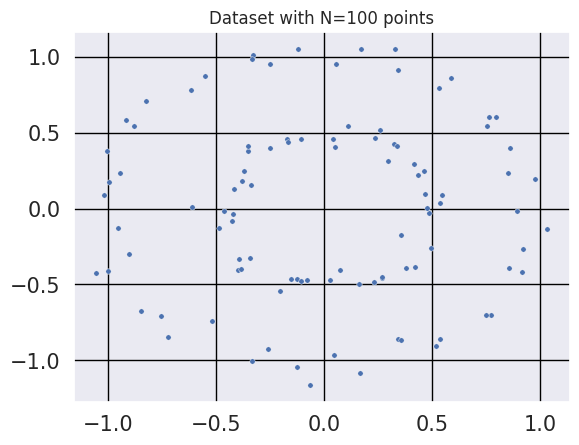
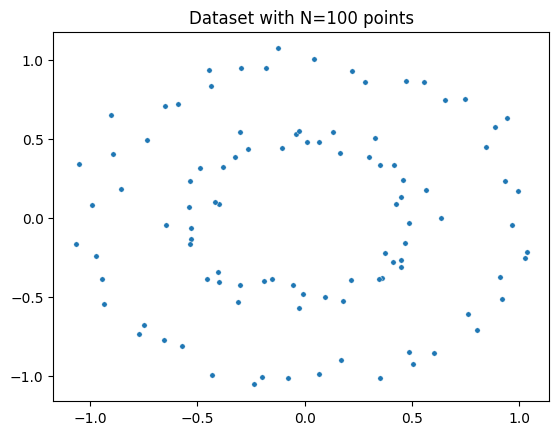
update tda9

diff --git a/_episodes/09-tda-handson.md b/_episodes/09-tda-handson.md
@@ -231,15 +231,27 @@ gd.plot_persistence_barcode(persistence_diagram,legend=True)
 
 
 ### **Example 2:** Rips complex from datasets 
-Import a new package and make two circles 
+In this example, we will demonstrate an application of persistent homology using a dataset generated by us. Persistent homology is a technique used in topological data analysis to study the shape and structure of datasets.
+
+The `make_circles()` function from scikit-learn's datasets module is used to generate synthetic circular data. We specify the number of points to generate (n_samples), the amount of noise to add to the data points (noise), and the scale factor between the inner and outer circle (factor).
+
+The generated dataset consists of two arrays: circles and labels. The circles array contains the coordinates of the generated data points, while the labels array assigns a label to each data point (in this case, it will be 0 or 1 representing the two circles).
+
 > ## FIXME
 > Aquí falta más texto para decir que vas a generar una nube de puntos y qué es make_circles n_samples, noise y factor. Y en general en los siguientes pasos falta un poco de texto y decir qué hacen las funciones nuevas.
 {: .caution}
 
 ~~~
-from sklearn import datasets
+from sklearn import datasets  # Import the datasets module from scikit-learn
+
+# Generate synthetic data using the make_circles function
+# n_samples: Number of points to generate
+# noise: Standard deviation of Gaussian noise added to the data
+# factor: Scale factor between inner and outer circle
 circles, labels = datasets.make_circles(n_samples=100, noise=0.06, factor=0.5)
-print('Data dimension:{}'.format(circles.shape))
+
+# Print the dimensions of the generated data
+print('Data dimension: {}'.format(circles.shape))
 ~~~
 {: .language-python}
 
@@ -254,17 +266,11 @@ Plot dataset
 {: .caution}
 
 ~~~
-sns.set()
-
-fig = plt.figure()
-ax = fig.add_subplot(111)
-ax = sns.scatterplot(x=circles[:,0], y=circles[:,1],   s=15)
-plt.title('Dataset with N=%s points'%(circles.shape[0]))
-plt.grid(color = 'black', linestyle = '-', linewidth = 1)
-plt.savefig('circles2.png' , dpi=600, transparent=True)
-plt.xticks(size=15)
-plt.yticks(size=15)
-plt.show()
+fig = plt.figure()  # Create a new figure
+ax = fig.add_subplot(111)  # Add a subplot to the figure
+ax = sns.scatterplot(x=circles[:,0], y=circles[:,1], s=15)  # Create a scatter plot using seaborn
+plt.title('Dataset with N=%s points'%(circles.shape[0]))  # Set the title of the plot
+plt.show()  # Display the plot
 ~~~
 {: .language-python}
  <a href="../fig/tda_circles.png">
@@ -283,8 +289,8 @@ Rips_complex = gd.RipsComplex(circles, max_edge_length=0.6)
 ~~~
 {: .language-python}
 ~~~
-CPU times: user 0 ns, sys: 214 µs, total: 214 µs
-Wall time: 217 µs
+CPU times: user 461 µs, sys: 88 µs, total: 549 µs
+Wall time: 557 µs
 ~~~
 {: .output}
 
@@ -297,8 +303,8 @@ Rips_simplex_tree = Rips_complex.create_simplex_tree(max_dimension=3)
 {: .language-python}
 
 ~~~
-CPU times: user 712 µs, sys: 612 µs, total: 1.32 ms
-Wall time: 645 µs
+CPU times: user 2.25 ms, sys: 0 ns, total: 2.25 ms
+Wall time: 1.95 ms
 ~~~
 {: .output}
 
@@ -310,8 +316,8 @@ filt_Rips = list(Rips_simplex_tree.get_filtration())
 ~~~
 {: .language-python}
 ~~~
-CPU times: user 2.72 ms, sys: 2.91 ms, total: 5.64 ms
-Wall time: 5.63 ms
+CPU times: user 108 ms, sys: 0 ns, total: 108 ms
+Wall time: 121 ms
 ~~~
 {: .output}
 
@@ -323,8 +329,8 @@ diag_Rips = Rips_simplex_tree.persistence()
 ~~~
 {: .language-python}
 ~~~
-CPU times: user 4.13 ms, sys: 126 µs, total: 4.26 ms
-Wall time: 3.58 ms
+CPU times: user 9.13 ms, sys: 41 µs, total: 9.17 ms
+Wall time: 8.82 ms
 ~~~
 {: .output}
 
@@ -332,10 +338,6 @@ Wall time: 3.58 ms
 ~~~
 %%time
 gd.plot_persistence_diagram(diag_Rips,legend=True)
-plt.grid(color = 'black', linestyle = '-', linewidth = 1)
-plt.savefig('persitencediagramCircles.png' , dpi=600, transparent=True)
-plt.xticks(size=15)
-plt.yticks(size=15)
 ~~~
 {: .language-python}
 ~~~
